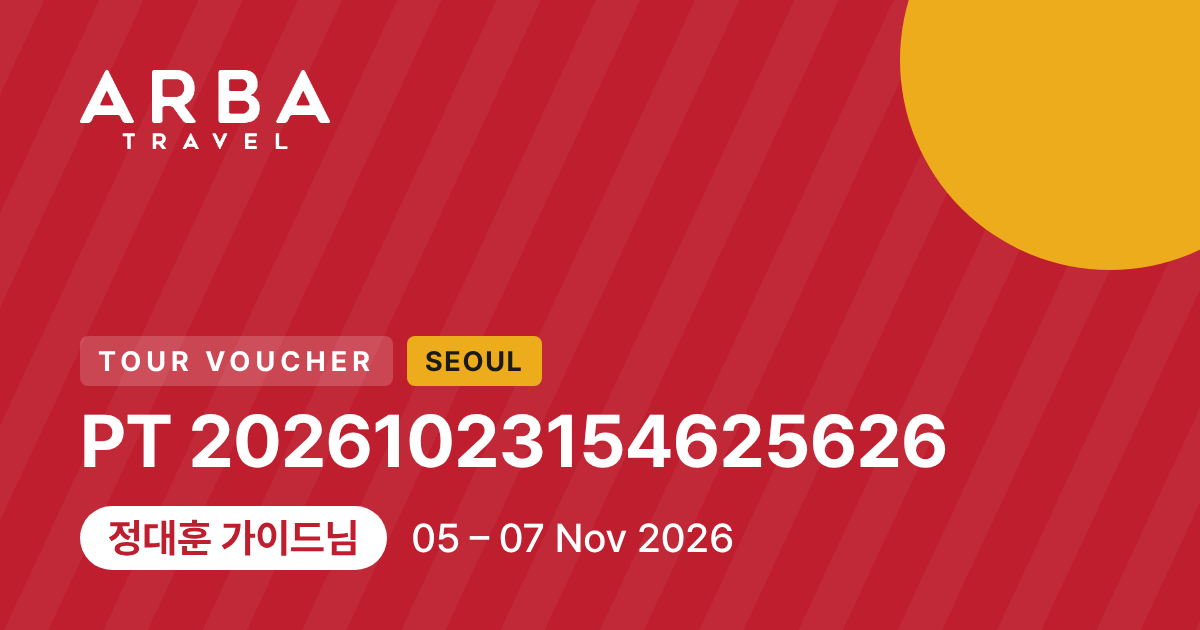
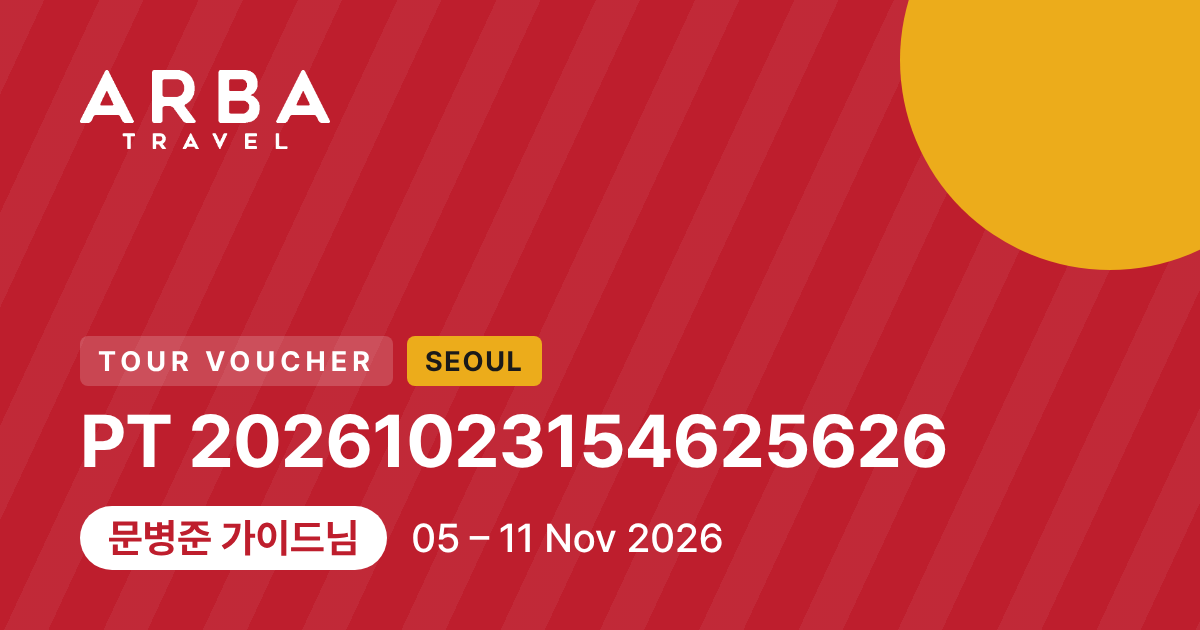
Tour voucher share card: PT 20261023154625626

Changed region(s): [[0.4008, 0.8143, 0.6167, 0.8746], [0.0925, 0.8143, 0.185, 0.9048]]

diff --git a/v/PT-20261023154625626/index.html b/v/PT-20261023154625626/index.html
@@ -1,10 +1,10 @@
 <!doctype html><html lang="ko"><head><meta charset="utf-8">
 <meta name="viewport" content="width=device-width,initial-scale=1"><meta name="robots" content="noindex,nofollow">
-<title>정대훈 가이드님 투어지침서 · PT 20261023154625626</title>
+<title>문병준 가이드님 투어지침서 · PT 20261023154625626</title>
 <meta property="og:type" content="website"><meta property="og:site_name" content="ARBA Travel Korea">
-<meta property="og:title" content="정대훈 가이드님 투어지침서 · PT 20261023154625626">
+<meta property="og:title" content="문병준 가이드님 투어지침서 · PT 20261023154625626">
 <meta property="og:description" content="ARBA Travel Korea Tour Voucher · Seoul · 눌러서 지침서 열기">
-<meta property="og:image" content="https://arbatravelkorea.github.io/img/og_PT-20261023154625626.png?v=1793272489"><meta property="og:image:width" content="1200"><meta property="og:image:height" content="630">
+<meta property="og:image" content="https://arbatravelkorea.github.io/img/og_PT-20261023154625626.png?v=1793275129"><meta property="og:image:width" content="1200"><meta property="og:image:height" content="630">
 <meta name="twitter:card" content="summary_large_image">
 <meta http-equiv="refresh" content="0;url=https://claude.ai/artifact/HHcp1Xh2ytfgtfk5tmwoMw#PT-20261023154625626">
 <style>body{font-family:system-ui,sans-serif;background:#BE1E2D;color:#fff;display:grid;place-items:center;min-height:100vh;margin:0;text-align:center}a{color:#fff;font-weight:700}</style>
